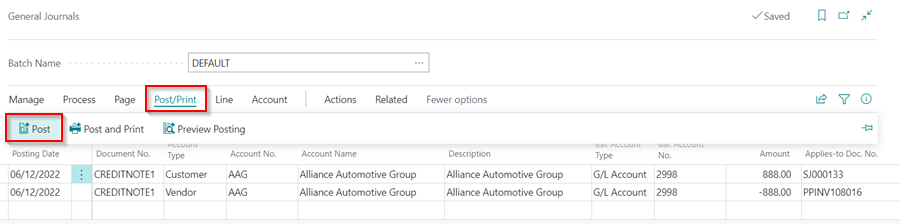
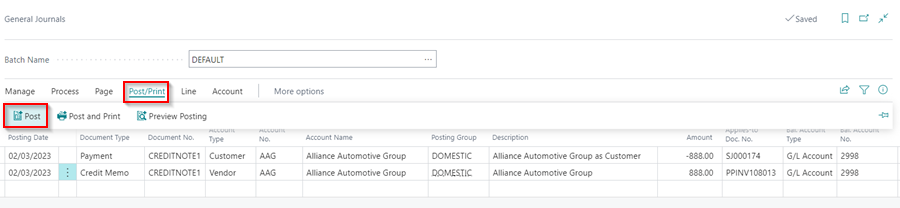
warranty job update

diff --git a/docs/garagehive-create-warranty-job.md b/docs/garagehive-create-warranty-job.md
@@ -30,8 +30,8 @@ Here is the process for creating a warranty job:
    {% include tip.html title="Note" text="Do not post the Credit Note because the Jobsheet has already been posted and you cannot have both in the system." %}
 
 6. The Accounts department will now perform the **Customer/Vendor Balancing Payments (also known as Contra Payments)**. For this posting, the accounts will post the two journals as follows:   
-      - **Line 1** - Customer: choose **Document Type** as Invoice, enter the Credit Note No. as the **Document No.**, select the customer as the name of the vendor billed in the Jobsheet, select **Applies-To-Doc-No.** as the vendor's Jobsheet posted for the vendor, enter a positive value in the **Amount** field and assign to **GL 2998** Suspense Account.
-      - **Line 2** - Vendor: choose **Document Type** as Invoice, enter the Credit Note No. as the **Document No.**, select the vendor name as the vendor you have received the credit note from, enter an negative value in the **Amount** field, use the Credit Note No. as the **Document No.**, and select the **Applies-To-Doc-No.** as the purchase invoice that you received the items you fitted in the customer's vehicle.
+      - **Line 1 - Customer:** choose **Document Type** as **Payment**, enter the Credit Note No. as the **Document No.**, select the customer as the name of the vendor billed in the Jobsheet, select **Applies-To-Doc-No.** as the vendor's Jobsheet posted for the vendor, enter a negative value in the **Amount** field and assign to **GL Account 2998** Suspense Account.
+      - **Line 2 - Vendor:** choose **Document Type** as **Credit Memo**, enter the Credit Note No. as the **Document No.**, select the vendor name as the vendor you have received the credit note from, enter a positive value in the **Amount** field, use the Credit Note No. as the **Document No.**, and select the **Applies-To-Doc-No.** as the purchase invoice that you received the items you fitted in the customer's vehicle.
 
          ![](media/garagehive-job-warranty3.png)
    
